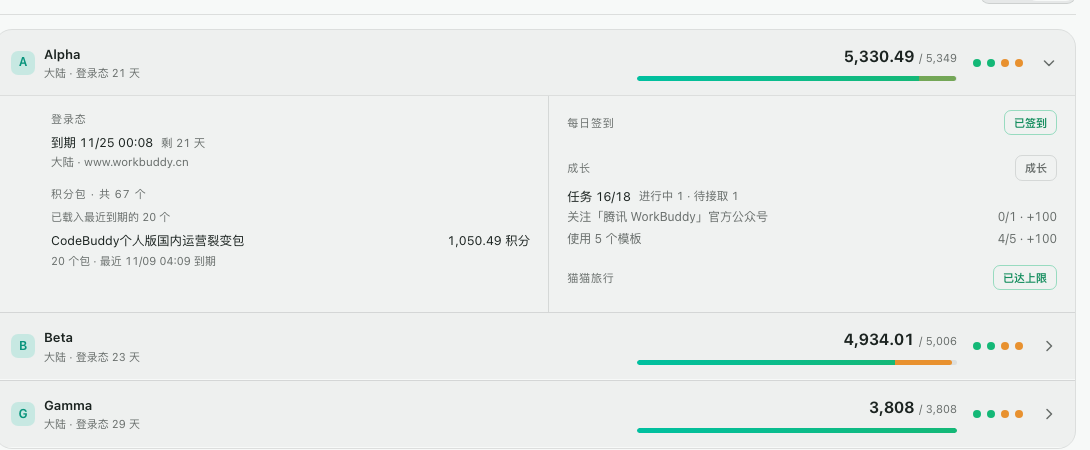
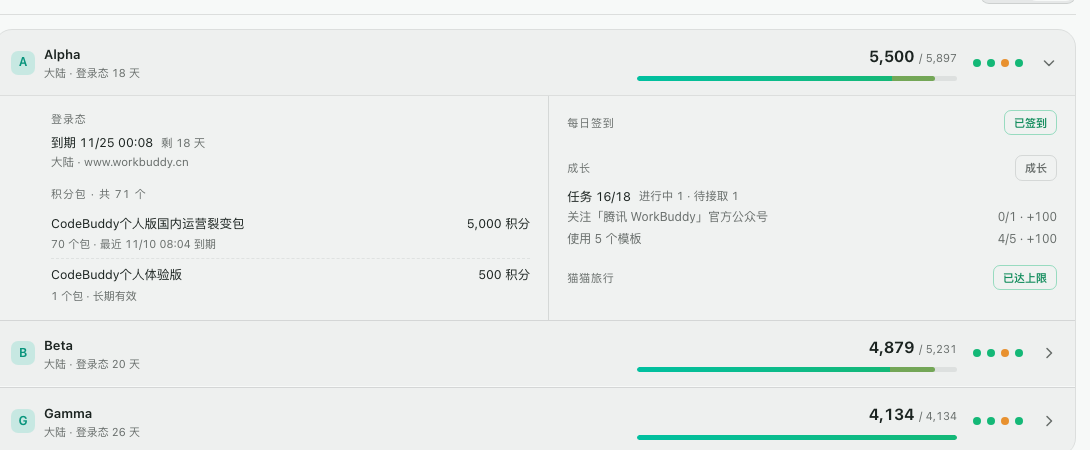
fix(view): 实时积分优先于不再更新的缓存 (v0.5.6)

diff --git a/CHANGELOG.md b/CHANGELOG.md
@@ -1,5 +1,10 @@
 # 更新记录
 
+## v0.5.6
+
+- 修：签到加了积分、刷新快照后余额还是旧的。页面原来优先用引擎缓存 `credits.json` 覆盖实时结果，而这份缓存在 0.5.0 去掉守护进程后就不再更新。现在**实时接口优先**，缓存只在实时读不到时兜底
+- 积分包明细不再只取前 4 个：余额、明细合计、到期时间三者一致（实测三个账号 `余额 == 明细合计`）
+
 ## v0.5.5
 
 - 修：原生插件/插件钩子已经签到成功，wbkit 页面却显示未签到——原因是内置记录里有一条旧日期，优先命中后把「今天」的记录挡住了。现在按日期取今天的一条，旧记录直接跳过

diff --git a/README.md b/README.md
@@ -3,7 +3,7 @@
 **补在社区插件后面的那一半。**
 供应商、登录、请求签名与余额交给 [`@magpie-community/opencode-workbuddy-auth`](https://github.com/magpie-community/plugins/tree/main/packages/workbuddy)；wbkit 补上它没有的：账号池、每日签到补位、猫猫旅行、批量成长任务、模型目录、官方用量，以及一个能一眼看完所有账号的页面。
 
-> 版本 `0.5.5` · magpie 插件 · 零 npm 依赖 · MIT
+> 版本 `0.5.6` · magpie 插件 · 零 npm 依赖 · MIT
 
 ```
 @magpie-community/opencode-workbuddy-auth   →  WorkBuddy 供应商 / 登录 / 余额
